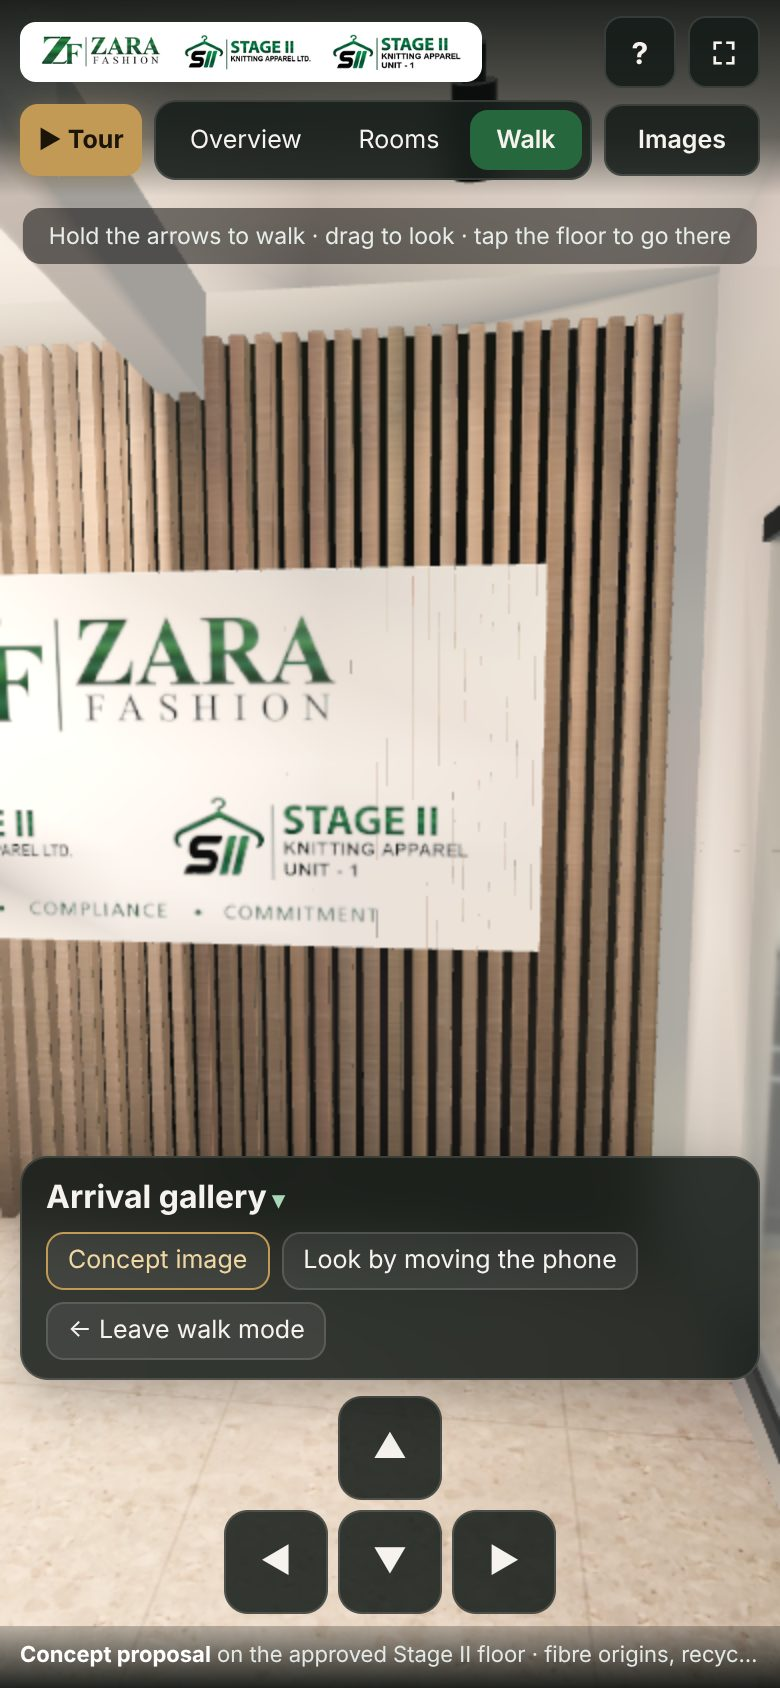
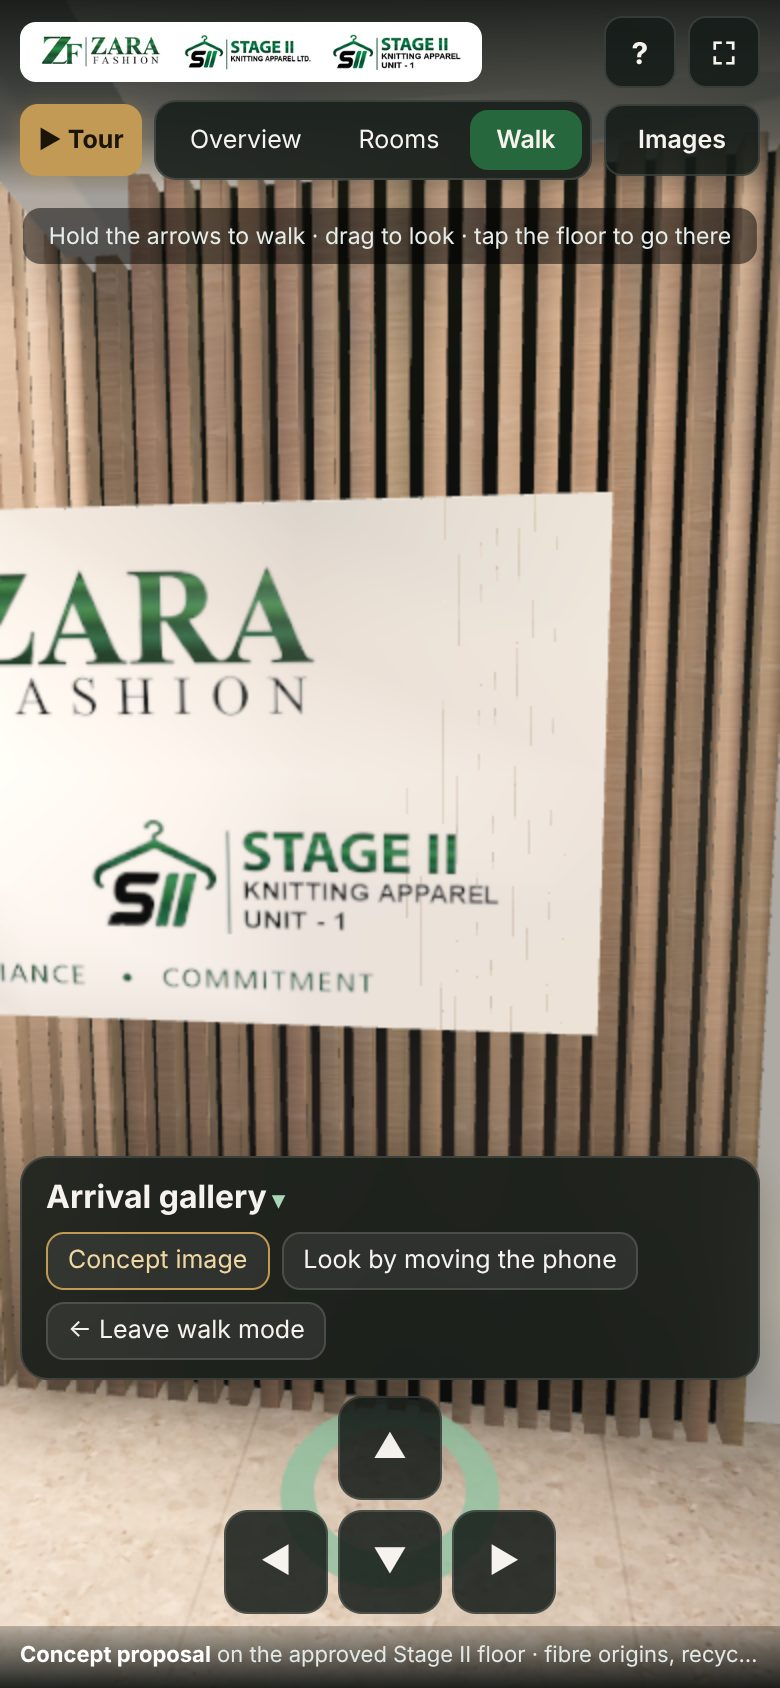
Phone walk check passes on the 3D model view build (phone 0.92 m and desktop 0.60 m towards the tapped target); update 6 checks complete
Claude-Session: https://claude.ai/code/session_019J6nTRSYGkqYLBQiQa9fAH

diff --git a/GARMENT_OFFICE_REALISM_UPGRADE/08_REALISTIC/deploy/DEPLOY_BENGAL_EARTH_LAB.md b/GARMENT_OFFICE_REALISM_UPGRADE/08_REALISTIC/deploy/DEPLOY_BENGAL_EARTH_LAB.md
@@ -13,7 +13,7 @@ If update 5 is not live yet, deploy this one instead. If update 5 is live, this 
   - Browser checks on desktop and phone, in `qa/bel-20261030/after-1101-*/`:
     - `stills`: the 3D model view switch at stop 2; 38 of 38 images load.
     - `gallery`, `landscape`, `arrows` and `tour-play` (23 stops) pass.
-    - `phone-walk`: the phone run passes. The desktop run is being repeated, because the local preview server restarted during it.
+    - `phone-walk` passes on phone and desktop. The tapped target is now awaited for up to 20 s, because software WebGL draws a desktop frame in 2 to 4 s at the moment; update 5's build behaved the same.
   - All 72 requested files exist at `f4346cc` (`after-1101-requests/`).
   - `index.html`, `app.js`, `release-config.json` and three of the images match raw.githubusercontent.com.
 
